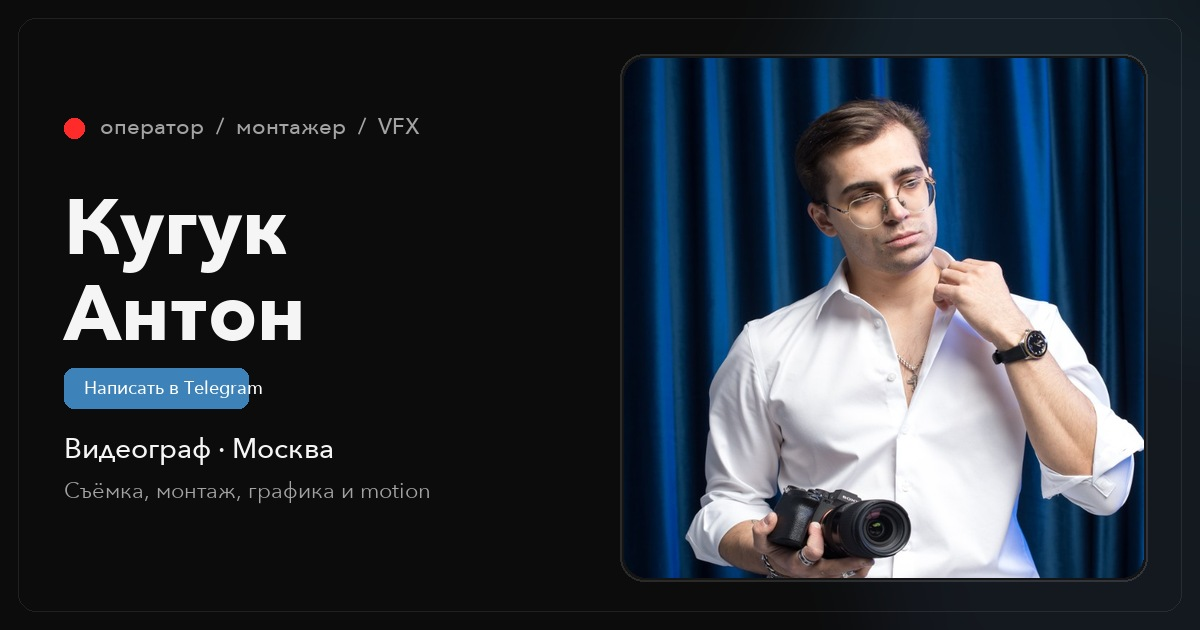
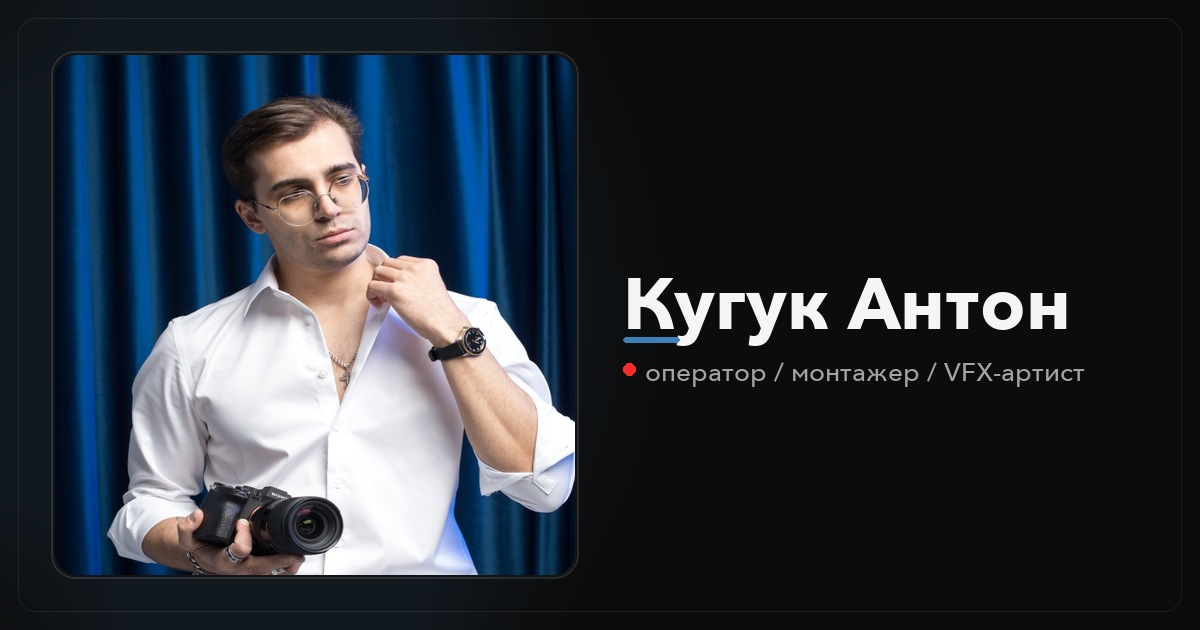
Пересобрать опенграф: фото и имя в ряд.
Подпись роли коротко под именем в одну строку.

diff --git a/index.html b/index.html
@@ -28,8 +28,8 @@
     <meta property="og:title" content="Антон Кугук — видеограф в Москве">
     <meta property="og:description" content="Съёмка, монтаж и motion. Рекламные ролики, контент для бизнеса и личные проекты.">
     <meta property="og:url" content="https://kuguk-anton.github.io/website/">
-    <meta property="og:image" content="https://kuguk-anton.github.io/website/assets/og.jpg?v=3">
-    <meta property="og:image:secure_url" content="https://kuguk-anton.github.io/website/assets/og.jpg?v=3">
+    <meta property="og:image" content="https://kuguk-anton.github.io/website/assets/og.jpg?v=4">
+    <meta property="og:image:secure_url" content="https://kuguk-anton.github.io/website/assets/og.jpg?v=4">
     <meta property="og:image:type" content="image/jpeg">
     <meta property="og:image:width" content="1200">
     <meta property="og:image:height" content="630">
@@ -40,7 +40,7 @@
     <meta name="twitter:card" content="summary_large_image">
     <meta name="twitter:title" content="Антон Кугук — видеограф в Москве">
     <meta name="twitter:description" content="Съёмка, монтаж и motion. Рекламные ролики, контент для бизнеса и личные проекты.">
-    <meta name="twitter:image" content="https://kuguk-anton.github.io/website/assets/og.jpg?v=3">
+    <meta name="twitter:image" content="https://kuguk-anton.github.io/website/assets/og.jpg?v=4">
     <meta name="twitter:image:alt" content="Антон Кугук, видеограф в Москве">
 
     <link rel="icon" href="favicon.svg" type="image/svg+xml">
@@ -63,7 +63,7 @@
             "inLanguage": "ru",
             "primaryImageOfPage": {
               "@type": "ImageObject",
-              "url": "https://kuguk-anton.github.io/website/assets/og.jpg?v=3",
+              "url": "https://kuguk-anton.github.io/website/assets/og.jpg?v=4",
               "width": 1200,
               "height": 630
             },
